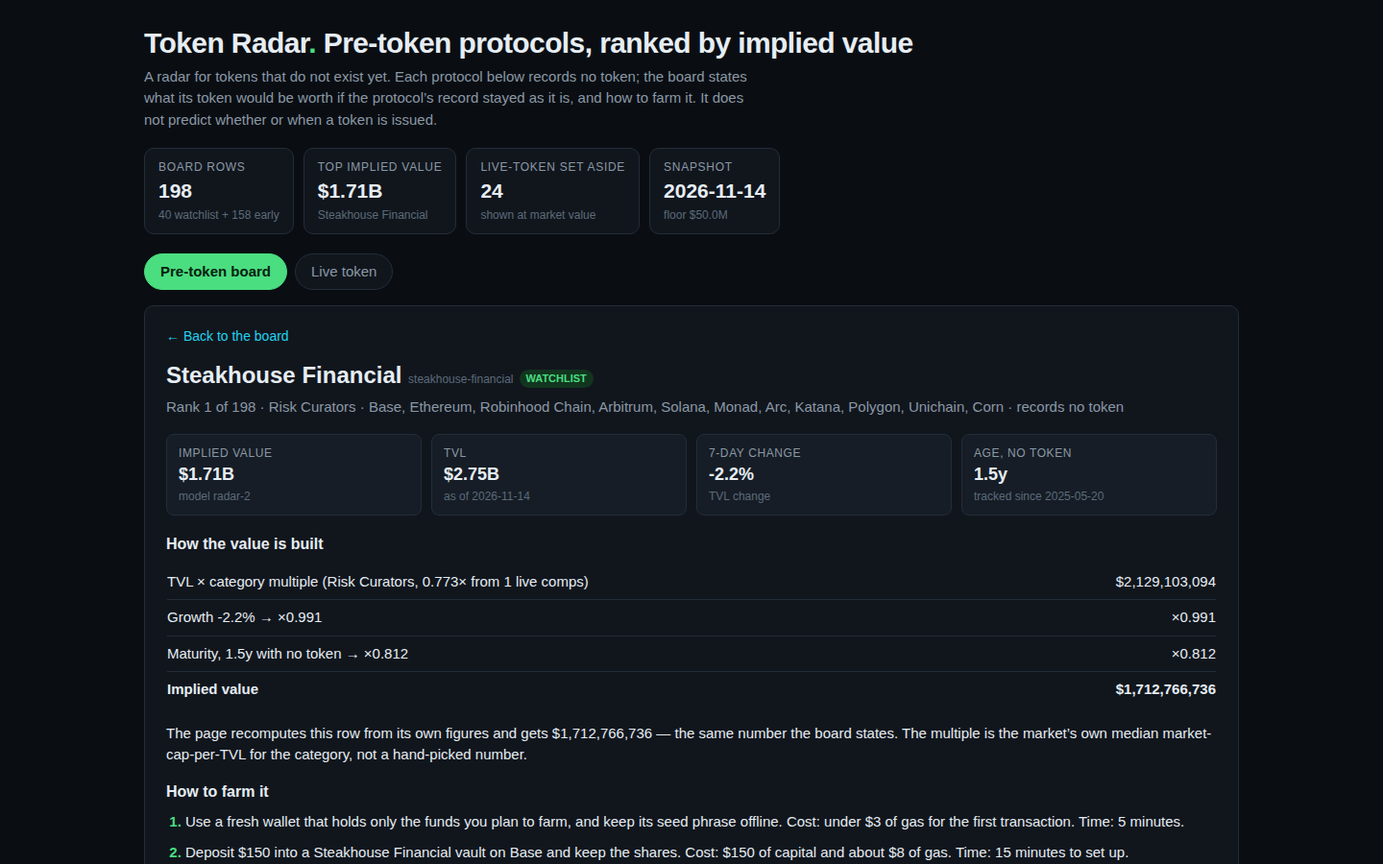
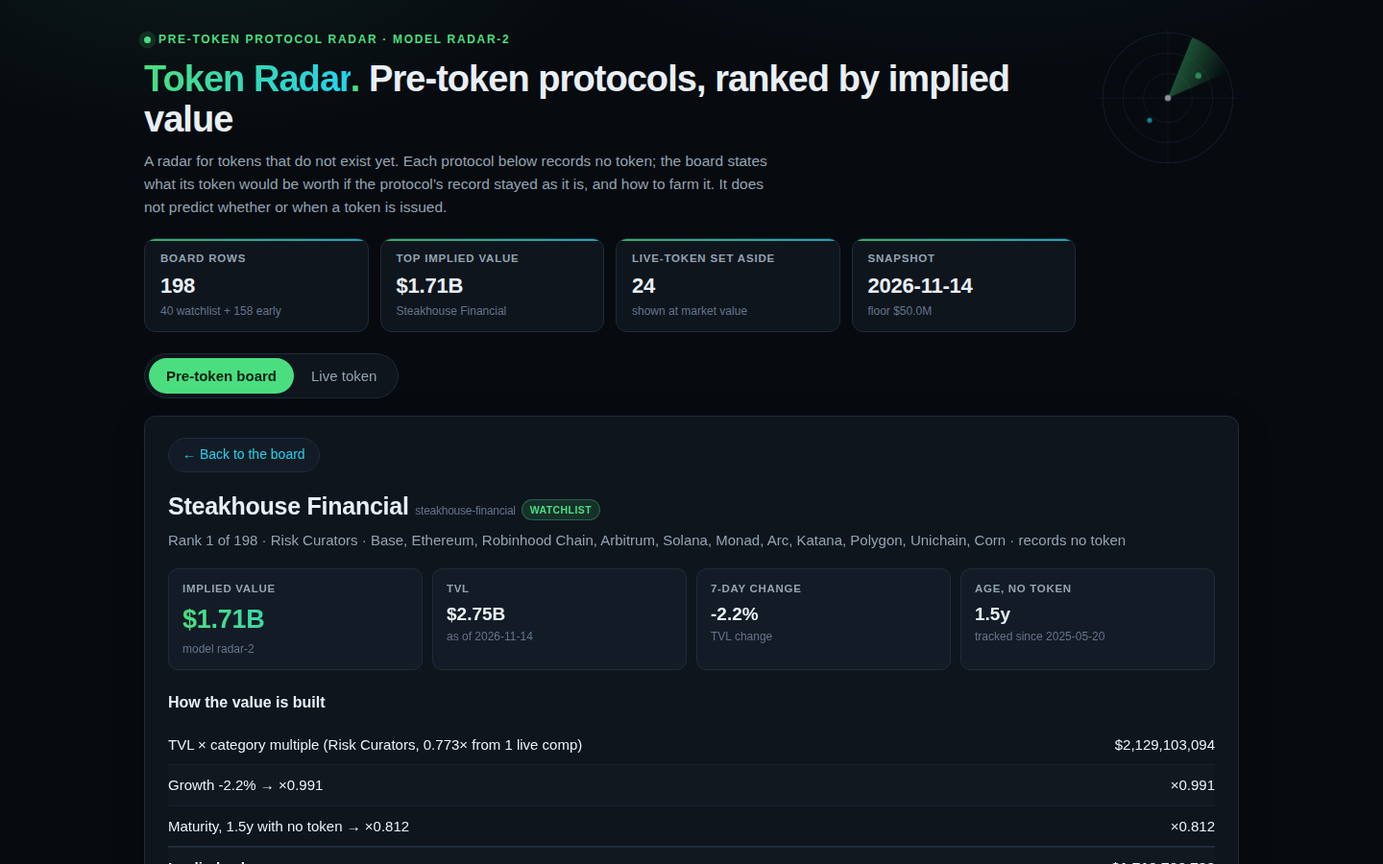
Token Radar: polish dashboard UI — cleaner layout, view transitions, refined theme

diff --git a/dashboard/app.css b/dashboard/app.css
@@ -1,100 +1,169 @@
 :root {
-  --bg: #0a0e13;
-  --panel: #11161d;
-  --panel2: #161d26;
-  --line: #232d38;
-  --text: #e6edf3;
-  --muted: #8b98a5;
-  --faint: #5c6b7a;
+  --bg: #070b10;
+  --panel: #0e151d;
+  --panel2: #131c26;
+  --panel3: #101820;
+  --line: #1f2b38;
+  --line-soft: #182230;
+  --text: #e9eff5;
+  --muted: #94a3b1;
+  --faint: #64748b;
   --accent: #4ade80;
   --accent2: #22d3ee;
   --warn: #fbbf24;
   --bad: #f87171;
   --good: #4ade80;
-  --radius: 10px;
+  --radius: 12px;
+  --shadow: 0 10px 30px rgba(0, 0, 0, 0.35);
 }
 * { box-sizing: border-box; }
 html { color-scheme: dark; }
 body {
   margin: 0;
-  background: var(--bg);
+  background:
+    radial-gradient(900px 420px at 70% -10%, rgba(34, 211, 238, 0.07), transparent 60%),
+    radial-gradient(700px 380px at 15% -5%, rgba(74, 222, 128, 0.08), transparent 60%),
+    var(--bg);
   color: var(--text);
-  font: 15px/1.5 -apple-system, "Segoe UI", Roboto, "Helvetica Neue", Arial, sans-serif;
+  font: 15px/1.55 -apple-system, "Segoe UI", Roboto, "Helvetica Neue", Arial, sans-serif;
+  -webkit-font-smoothing: antialiased;
 }
-.skip { position: absolute; left: -999px; top: 0; background: var(--accent); color: #06210f; padding: 8px 12px; border-radius: 0 0 8px 0; }
+::selection { background: rgba(34, 211, 238, 0.35); }
+:focus-visible { outline: 2px solid var(--accent2); outline-offset: 2px; }
+.skip { position: absolute; left: -999px; top: 0; background: var(--accent); color: #06210f; padding: 8px 12px; border-radius: 0 0 8px 0; z-index: 10; }
 .skip:focus { left: 0; }
-main { max-width: 1180px; margin: 0 auto; padding: 28px 20px 60px; }
+main { max-width: 1180px; margin: 0 auto; padding: 32px 20px 64px; }
 a { color: var(--accent2); }
 button { font: inherit; cursor: pointer; }
-h1 { font-size: 30px; line-height: 1.15; margin: 0 0 6px; letter-spacing: -0.02em; }
+.loading { color: var(--muted); text-align: center; padding: 80px 0; }
+.loading-dot { display: inline-block; width: 8px; height: 8px; margin-right: 8px; border-radius: 50%; background: var(--accent); animation: pulse 1.2s ease-in-out infinite; }
+@keyframes pulse { 0%, 100% { opacity: 1; } 50% { opacity: 0.25; } }
+
+/* ---- header ---- */
+.hero-head { position: relative; }
+@media (min-width: 900px) { .hero-head { padding-right: 170px; } }
+.kicker { display: flex; align-items: center; gap: 8px; font-size: 12px; font-weight: 700; letter-spacing: 0.14em; text-transform: uppercase; color: var(--accent); margin: 0 0 10px; }
+.kicker::before { content: ''; width: 7px; height: 7px; border-radius: 50%; background: var(--accent); box-shadow: 0 0 0 0 rgba(74, 222, 128, 0.45); animation: ping 2.4s ease-out infinite; }
+@keyframes ping { 0% { box-shadow: 0 0 0 0 rgba(74, 222, 128, 0.45); } 70% { box-shadow: 0 0 0 8px rgba(74, 222, 128, 0); } 100% { box-shadow: 0 0 0 0 rgba(74, 222, 128, 0); } }
+h1 { font-size: clamp(28px, 4vw, 38px); line-height: 1.12; margin: 0 0 10px; letter-spacing: -0.025em; font-weight: 750; }
+h1 .brand { background: linear-gradient(92deg, var(--accent), var(--accent2)); -webkit-background-clip: text; background-clip: text; color: transparent; }
 h1 .radar-dot { color: var(--accent); }
-h2 { font-size: 19px; margin: 30px 0 10px; }
-h3 { font-size: 16px; margin: 0 0 8px; }
-.lede { color: var(--muted); max-width: 76ch; margin: 0 0 18px; }
+h1 .h1-rest { font-weight: 650; }
+.radar-deco { position: absolute; right: 0; top: -4px; width: 148px; height: 148px; opacity: 0.6; pointer-events: none; }
+@media (max-width: 899px) { .radar-deco { display: none; } }
+.radar-deco svg { width: 100%; height: 100%; display: block; }
+.radar-sweep { transform-box: view-box; transform-origin: 70px 70px; animation: sweep 14s linear infinite; }
+@keyframes sweep { to { transform: rotate(360deg); } }
+h2 { font-size: 20px; margin: 32px 0 10px; letter-spacing: -0.01em; }
+h3 { font-size: 16px; margin: 22px 0 10px; }
+.lede { color: var(--muted); max-width: 76ch; margin: 0 0 20px; font-size: 15.5px; }
 .lede b { color: var(--text); font-weight: 600; }
-.stats { display: flex; flex-wrap: wrap; gap: 10px; margin: 0 0 20px; }
-.stat { background: var(--panel); border: 1px solid var(--line); border-radius: var(--radius); padding: 10px 14px; min-width: 130px; }
-.stat .k { font-size: 12px; color: var(--muted); text-transform: uppercase; letter-spacing: 0.06em; }
-.stat .v { font-size: 21px; font-weight: 700; font-variant-numeric: tabular-nums; }
+
+/* ---- stats ---- */
+.stats { display: flex; flex-wrap: wrap; gap: 12px; margin: 0 0 22px; }
+.stat { position: relative; overflow: hidden; background: var(--panel); border: 1px solid var(--line); border-radius: var(--radius); padding: 12px 16px; min-width: 140px; flex: 1 1 160px; transition: transform 0.16s ease, border-color 0.16s ease; }
+.stat::before { content: ''; position: absolute; top: 0; left: 0; right: 0; height: 2px; background: linear-gradient(90deg, var(--accent), var(--accent2)); opacity: 0.75; }
+.stat:hover { transform: translateY(-2px); border-color: #2c3d4f; }
+.stat .k { font-size: 11.5px; color: var(--muted); text-transform: uppercase; letter-spacing: 0.07em; font-weight: 600; }
+.stat .v { font-size: 22px; font-weight: 750; font-variant-numeric: tabular-nums; letter-spacing: -0.01em; margin-top: 2px; }
 .stat .s { font-size: 12px; color: var(--faint); }
-.tabs { display: flex; gap: 8px; margin: 0 0 16px; }
-.tab { background: var(--panel); color: var(--muted); border: 1px solid var(--line); border-radius: 999px; padding: 7px 16px; }
-.tab[aria-pressed="true"] { background: var(--accent); border-color: var(--accent); color: #06210f; font-weight: 600; }
+
+/* ---- tabs: segmented control with a sliding indicator ---- */
+.tabs { display: inline-flex; position: relative; gap: 0; background: var(--panel); border: 1px solid var(--line); border-radius: 999px; padding: 4px; margin: 0 0 18px; }
+.tab { position: relative; z-index: 1; background: transparent; color: var(--muted); border: 0; border-radius: 999px; padding: 7px 18px; transition: color 0.18s ease; }
+.tab:hover { color: var(--text); }
+.tab[aria-pressed="true"] { background: rgba(74, 222, 128, 0.14); color: var(--accent); font-weight: 650; }
+.tabs.has-indicator .tab[aria-pressed="true"] { background: transparent; color: #06210f; }
+.tab-indicator { position: absolute; top: 4px; bottom: 4px; left: 4px; width: 0; background: var(--accent); border-radius: 999px; transition: left 0.22s cubic-bezier(0.2, 0.7, 0.3, 1), width 0.22s cubic-bezier(0.2, 0.7, 0.3, 1); z-index: 0; }
+.tabs:not(.has-indicator) .tab-indicator { display: none; }
+
+/* ---- view transitions ---- */
+.view-enter { animation: viewIn 0.22s cubic-bezier(0.2, 0.7, 0.3, 1) both; }
+@keyframes viewIn { from { opacity: 0; transform: translateY(10px); } to { opacity: 1; transform: translateY(0); } }
+
+/* ---- controls ---- */
 .controls { display: flex; flex-wrap: wrap; gap: 10px; align-items: center; background: var(--panel); border: 1px solid var(--line); border-radius: var(--radius); padding: 12px; margin-bottom: 14px; }
 .controls label { font-size: 13px; color: var(--muted); display: flex; align-items: center; gap: 6px; }
 .controls input[type="search"], .controls select {
   background: var(--panel2); color: var(--text); border: 1px solid var(--line);
-  border-radius: 7px; padding: 7px 10px; font: inherit; font-size: 14px;
+  border-radius: 8px; padding: 8px 11px; font: inherit; font-size: 14px;
+  transition: border-color 0.15s ease, box-shadow 0.15s ease;
 }
-.controls input[type="search"] { min-width: 200px; }
+.controls input[type="search"]:focus, .controls select:focus { border-color: var(--accent); outline: none; box-shadow: 0 0 0 3px rgba(74, 222, 128, 0.16); }
+.search-wrap { position: relative; display: flex; align-items: center; flex: 0 1 250px; }
+.search-wrap input[type="search"] { width: 100%; padding-left: 33px; }
+.search-icon { position: absolute; left: 11px; color: var(--faint); display: flex; pointer-events: none; }
 .controls select { max-width: 190px; }
 .controls .count { margin-left: auto; font-size: 13px; color: var(--muted); font-variant-numeric: tabular-nums; }
-.clear { background: none; border: 1px solid var(--line); color: var(--muted); border-radius: 7px; padding: 7px 12px; }
+.clear { background: none; border: 1px solid var(--line); color: var(--muted); border-radius: 8px; padding: 8px 13px; transition: color 0.15s ease, border-color 0.15s ease; }
 .clear:hover { color: var(--text); border-color: var(--faint); }
-table { width: 100%; border-collapse: collapse; background: var(--panel); border: 1px solid var(--line); border-radius: var(--radius); overflow: hidden; }
-thead th { text-align: left; font-size: 12px; text-transform: uppercase; letter-spacing: 0.05em; color: var(--muted); padding: 10px 12px; border-bottom: 1px solid var(--line); white-space: nowrap; }
-thead th button { background: none; border: 0; color: inherit; font: inherit; padding: 0; text-transform: inherit; letter-spacing: inherit; }
+
+/* ---- tables ---- */
+.table-wrap { background: var(--panel); border: 1px solid var(--line); border-radius: var(--radius); overflow: clip; }
+.table-wrap > table { border: 0; background: transparent; }
+table { width: 100%; border-collapse: collapse; }
+thead th { text-align: left; font-size: 11.5px; text-transform: uppercase; letter-spacing: 0.06em; color: var(--muted); padding: 11px 12px; border-bottom: 1px solid var(--line); white-space: nowrap; background: var(--panel3); position: sticky; top: 0; z-index: 2; }
+thead th button { background: none; border: 0; color: inherit; font: inherit; padding: 0; text-transform: inherit; letter-spacing: inherit; transition: color 0.15s ease; }
 thead th button:hover { color: var(--text); }
-tbody td { padding: 10px 12px; border-bottom: 1px solid var(--line); font-variant-numeric: tabular-nums; vertical-align: top; }
+tbody td { padding: 11px 12px; border-bottom: 1px solid var(--line-soft); font-variant-numeric: tabular-nums; vertical-align: middle; transition: background-color 0.14s ease; }
 tbody tr:last-child td { border-bottom: 0; }
 tbody tr { cursor: pointer; }
-tbody tr:hover { background: var(--panel2); }
-tbody tr.top3 td:first-child { color: var(--accent); font-weight: 700; }
+tbody tr:nth-child(even) td { background: rgba(255, 255, 255, 0.016); }
+tbody tr.top3 td { background: rgba(74, 222, 128, 0.05); }
+tbody tr:hover td { background: var(--panel2); }
+tbody tr:hover td:first-child { box-shadow: inset 2px 0 0 var(--accent); }
+tbody tr.top3 td:first-child { color: var(--accent); font-weight: 750; }
 .num { text-align: right; }
-.name { font-weight: 600; }
+.value { font-weight: 700; color: var(--text); }
+.name { font-weight: 650; }
 .slug { color: var(--faint); font-size: 12px; font-weight: 400; }
-.badge { display: inline-block; font-size: 11px; font-weight: 700; padding: 1px 7px; border-radius: 999px; background: #12351f; color: var(--accent); margin-left: 6px; vertical-align: 1px; }
+.badge { display: inline-block; font-size: 10.5px; font-weight: 750; letter-spacing: 0.04em; padding: 2px 8px; border-radius: 999px; background: rgba(74, 222, 128, 0.14); color: var(--accent); border: 1px solid rgba(74, 222, 128, 0.3); margin-left: 6px; vertical-align: 1px; }
 .up { color: var(--good); }
 .down { color: var(--bad); }
 .flat { color: var(--muted); }
-.empty { padding: 34px; text-align: center; color: var(--muted); background: var(--panel); border: 1px solid var(--line); border-radius: var(--radius); }
-.detail { background: var(--panel); border: 1px solid var(--line); border-radius: var(--radius); padding: 20px 22px; }
-.detail .back { background: none; border: 0; color: var(--accent2); padding: 0; margin-bottom: 12px; font-size: 14px; }
-.detail h2 { margin: 0 0 4px; font-size: 24px; }
-.detail .sub { color: var(--muted); margin: 0 0 16px; }
-.grid { display: grid; grid-template-columns: repeat(auto-fit, minmax(150px, 1fr)); gap: 10px; margin-bottom: 18px; }
-.cell { background: var(--panel2); border: 1px solid var(--line); border-radius: 8px; padding: 10px 12px; }
-.cell .k { font-size: 12px; color: var(--muted); text-transform: uppercase; letter-spacing: 0.05em; }
-.cell .v { font-size: 18px; font-weight: 700; font-variant-numeric: tabular-nums; }
+.empty { padding: 36px; text-align: center; color: var(--muted); background: var(--panel); border: 1px solid var(--line); border-radius: var(--radius); }
+
+/* ---- detail ---- */
+.detail { background: var(--panel); border: 1px solid var(--line); border-radius: var(--radius); padding: 22px 24px; box-shadow: var(--shadow); }
+.detail .back { display: inline-flex; align-items: center; gap: 6px; background: var(--panel2); border: 1px solid var(--line); color: var(--accent2); border-radius: 999px; padding: 6px 14px; margin-bottom: 16px; font-size: 14px; transition: border-color 0.15s ease, background-color 0.15s ease; }
+.detail .back:hover { border-color: var(--accent2); }
+.detail h2 { margin: 0 0 4px; font-size: 25px; }
+.detail .sub { color: var(--muted); margin: 0 0 18px; }
+.grid { display: grid; grid-template-columns: repeat(auto-fit, minmax(150px, 1fr)); gap: 10px; margin-bottom: 20px; }
+.cell { background: var(--panel2); border: 1px solid var(--line); border-radius: 10px; padding: 12px 14px; }
+.cell .k { font-size: 11.5px; color: var(--muted); text-transform: uppercase; letter-spacing: 0.06em; font-weight: 600; }
+.cell .v { font-size: 19px; font-weight: 750; font-variant-numeric: tabular-nums; margin-top: 2px; }
 .cell .s { font-size: 12px; color: var(--faint); }
+.cell.hero .v { font-size: 27px; letter-spacing: -0.01em; background: linear-gradient(92deg, var(--accent), var(--accent2)); -webkit-background-clip: text; background-clip: text; color: transparent; }
 .breakdown { width: 100%; border-collapse: collapse; margin-bottom: 6px; }
-.breakdown td { padding: 7px 0; border-bottom: 1px solid var(--line); }
-.breakdown td:last-child { text-align: right; font-variant-numeric: tabular-nums; }
-.breakdown tr:last-child td { border-bottom: 0; font-weight: 700; }
-.breakdown .note { color: var(--faint); font-size: 13px; }
-.steps { margin: 8px 0 0; padding-left: 20px; }
-.steps li { margin-bottom: 10px; }
-.steps li::marker { color: var(--accent); font-weight: 700; }
+.breakdown td { padding: 9px 0; border-bottom: 1px solid var(--line-soft); }
+.breakdown td:last-child { text-align: right; font-variant-numeric: tabular-nums; white-space: nowrap; }
+.breakdown tr:last-child td { border-bottom: 0; border-top: 2px solid var(--line); font-weight: 750; font-size: 15.5px; }
+.note { background: rgba(74, 222, 128, 0.07); border: 1px solid rgba(74, 222, 128, 0.22); border-left: 3px solid var(--accent); border-radius: 10px; padding: 12px 14px; color: var(--text); font-size: 14px; margin: 14px 0 4px; }
+.note::before { content: '✓ '; color: var(--accent); font-weight: 750; }
+.steps { margin: 10px 0 0; padding: 0; list-style: none; counter-reset: step; display: grid; gap: 10px; }
+.steps li { counter-increment: step; position: relative; padding: 14px 16px 14px 58px; background: var(--panel2); border: 1px solid var(--line); border-radius: 10px; transition: border-color 0.15s ease; }
+.steps li:hover { border-color: #2c3d4f; }
+.steps li::before { content: counter(step, decimal-leading-zero); position: absolute; left: 16px; top: 14px; font-weight: 800; font-size: 15px; color: var(--accent); font-variant-numeric: tabular-nums; }
+
+/* ---- method + footer ---- */
 .method { color: var(--muted); }
 .method p { max-width: 80ch; }
 .method code { background: var(--panel2); border: 1px solid var(--line); border-radius: 5px; padding: 1px 6px; font-size: 13px; color: var(--text); }
-.method table { margin-top: 10px; }
 .method tbody tr { cursor: default; }
-.method tbody tr:hover { background: none; }
-.foot { margin-top: 34px; padding-top: 16px; border-top: 1px solid var(--line); color: var(--faint); font-size: 13px; }
+.method tbody tr:hover td { background: transparent; }
+.method tbody tr:hover td:first-child { box-shadow: none; }
+.foot { margin-top: 36px; padding-top: 16px; border-top: 1px solid var(--line); color: var(--faint); font-size: 13px; }
 .foot p { margin: 4px 0; max-width: 80ch; }
+
 @media (max-width: 720px) {
-  h1 { font-size: 24px; }
+  h1 { font-size: 26px; }
   .controls input[type="search"] { min-width: 0; flex: 1; }
+  .search-wrap { flex: 1 1 100%; }
   thead th:nth-child(4), tbody td:nth-child(4) { display: none; }
+  .detail { padding: 16px; }
+  .steps li { padding-left: 48px; }
+}
+@media (prefers-reduced-motion: reduce) {
+  *, *::before, *::after { animation-duration: 0.01ms !important; animation-iteration-count: 1 !important; transition-duration: 0.01ms !important; }
 }

diff --git a/dashboard/app.js b/dashboard/app.js
@@ -127,9 +127,12 @@
   function goBoard() { location.hash = '#board'; }
 
   function header() {
-    var wrap = el('header', null, [
-      el('h1', { html: 'Token Radar<span class="radar-dot">.</span> Pre-token protocols, ranked by implied value' }),
+    var kickerText = 'Pre-token protocol radar' + (DATA.model_version ? ' · model ' + DATA.model_version : '');
+    var wrap = el('header', { 'class': 'hero-head' }, [
+      el('div', { 'class': 'kicker', text: kickerText }),
+      el('h1', { html: '<span class="brand">Token Radar</span><span class="radar-dot">.</span> <span class="h1-rest">Pre-token protocols, ranked by implied value</span>' }),
       el('p', { 'class': 'lede', html: 'A radar for tokens that do not exist yet. Each protocol below records no token; the board states what its token would be worth if the protocol\u2019s record stayed as it is, and how to farm it. It does not predict whether or when a token is issued.' }),
+      el('div', { 'class': 'radar-deco', 'aria-hidden': 'true', html: '<svg viewBox="0 0 140 140" fill="none"><defs><linearGradient id="sweepGrad" x1="0" y1="0" x2="1" y2="0"><stop offset="0" stop-color="#4ade80" stop-opacity="0.55"/><stop offset="1" stop-color="#4ade80" stop-opacity="0"/></linearGradient></defs><circle cx="70" cy="70" r="64" stroke="#334155" stroke-opacity="0.5"/><circle cx="70" cy="70" r="44" stroke="#334155" stroke-opacity="0.4"/><circle cx="70" cy="70" r="24" stroke="#334155" stroke-opacity="0.35"/><line x1="70" y1="2" x2="70" y2="138" stroke="#334155" stroke-opacity="0.3"/><line x1="2" y1="70" x2="138" y2="70" stroke="#334155" stroke-opacity="0.3"/><path class="radar-sweep" d="M70 70 L70 6 A64 64 0 0 1 115 25 Z" fill="url(#sweepGrad)"/><circle cx="100" cy="48" r="3" fill="#4ade80"/><circle cx="52" cy="92" r="2.5" fill="#22d3ee"/><circle cx="70" cy="70" r="3" fill="#e6edf3"/></svg>' }),
     ]);
     var stats = el('div', { 'class': 'stats' }, [
       el('div', { 'class': 'stat' }, [el('div', { 'class': 'k', text: 'Board rows' }), el('div', { 'class': 'v', text: String(DATA.board_size) }), el('div', { 'class': 's', text: DATA.watchlist_size + ' watchlist + ' + DATA.early_size + ' early' })]),
@@ -144,7 +147,28 @@
   function tabs() {
     var pre = el('button', { 'class': 'tab', type: 'button', 'aria-pressed': state.tab === 'pre-token' ? 'true' : 'false', text: 'Pre-token board', onclick: function () { state.tab = 'pre-token'; state.detail = null; goBoard(); } });
     var live = el('button', { 'class': 'tab', type: 'button', 'aria-pressed': state.tab === 'live' ? 'true' : 'false', text: 'Live token', onclick: function () { state.tab = 'live'; state.detail = null; location.hash = '#live'; } });
-    return el('div', { 'class': 'tabs' }, [pre, live]);
+    var ind = el('span', { 'class': 'tab-indicator', 'aria-hidden': 'true' });
+    return el('div', { 'class': 'tabs' }, [ind, pre, live]);
+  }
+
+  /** Slide the segmented-control indicator under the active tab. Falls back to the
+   *  plain active-tab style when the active tab cannot be measured. */
+  function positionTabIndicator() {
+    var box = document.querySelector('.tabs');
+    if (!box) return;
+    var active = box.querySelector('.tab[aria-pressed="true"]');
+    var ind = box.querySelector('.tab-indicator');
+    if (!active || !ind || !active.offsetWidth) return;
+    ind.style.left = active.offsetLeft + 'px';
+    ind.style.width = active.offsetWidth + 'px';
+    box.classList.add('has-indicator');
+  }
+
+  var indicatorResizeBound = false;
+  function bindIndicatorResize() {
+    if (indicatorResizeBound) return;
+    indicatorResizeBound = true;
+    window.addEventListener('resize', positionTabIndicator);
   }
 
   function controls() {
@@ -152,6 +176,10 @@
     var chains = Array.from(new Set(DATA.rows.reduce(function (acc, r) { return acc.concat(r.chains || []); }, []))).sort();
     var search = el('input', { type: 'search', placeholder: 'Search name or slug…', value: state.q, 'aria-label': 'Search protocols' });
     search.addEventListener('input', function () { state.q = search.value; writeHash(); render(); });
+    var searchWrap = el('div', { 'class': 'search-wrap' }, [
+      el('span', { 'class': 'search-icon', 'aria-hidden': 'true', html: '<svg viewBox="0 0 16 16" width="15" height="15" fill="none"><circle cx="7" cy="7" r="5" stroke="currentColor" stroke-width="1.6"/><line x1="11" y1="11" x2="14.5" y2="14.5" stroke="currentColor" stroke-width="1.6" stroke-linecap="round"/></svg>' }),
+      search,
+    ]);
     var cat = el('select', { 'aria-label': 'Filter by category' }, [el('option', { value: 'all', text: 'All categories' })].concat(categories.map(function (c) { return el('option', { value: c, text: c, selected: c === state.category ? 'selected' : null }); })));
     cat.addEventListener('change', function () { state.category = cat.value; writeHash(); render(); });
     var ch = el('select', { 'aria-label': 'Filter by chain' }, [el('option', { value: 'all', text: 'All chains' })].concat(chains.map(function (c) { return el('option', { value: c, text: c, selected: c === state.chain ? 'selected' : null }); })));
@@ -171,7 +199,7 @@
     sort.addEventListener('change', function () { state.sort = sort.value; state.dir = state.sort === 'name' ? 1 : -1; writeHash(); render(); });
     var clear = el('button', { 'class': 'clear', type: 'button', text: 'Clear filters', onclick: function () { state.q = ''; state.category = 'all'; state.chain = 'all'; state.watchlistOnly = false; state.sort = 'implied'; state.dir = -1; writeHash(); render(); } });
     var count = el('span', { 'class': 'count', text: '' });
-    var box = el('div', { 'class': 'controls' }, [search, cat, ch, wl, sort, clear, count]);
+    var box = el('div', { 'class': 'controls' }, [searchWrap, cat, ch, wl, sort, clear, count]);
     box._count = count;
     return box;
   }
@@ -203,13 +231,13 @@
         el('td', { 'class': 'num', text: fmtUsd(r.tvl_usd) }),
         el('td', { 'class': 'num' }, [chg]),
         el('td', { 'class': 'num', text: fmtAge(r.age_days) }),
-        el('td', { 'class': 'num', text: fmtUsd(r.implied_value_usd) }),
+        el('td', { 'class': 'num value', text: fmtUsd(r.implied_value_usd) }),
       ]);
       if (r.rank <= 3) row.classList.add('top3');
       return row;
     }));
     if (box && box._count) box._count.textContent = list.length + ' of ' + DATA.rows.length + ' protocols';
-    return el('table', null, [head, body]);
+    return el('div', { 'class': 'table-wrap' }, [el('table', null, [head, body])]);
   }
 
   function liveTable() {
@@ -230,7 +258,7 @@
     }));
     return el('div', null, [
       el('p', { 'class': 'lede', text: 'These protocols already have a token that trades. Their value is the market\u2019s own number, never this radar\u2019s model. They are set aside so the board ranks only what is still to come.' }),
-      el('table', null, [head, body]),
+      el('div', { 'class': 'table-wrap' }, [el('table', null, [head, body])]),
     ]);
   }
 
@@ -250,7 +278,7 @@
       el('h2', null, [document.createTextNode(r.name + ' '), el('span', { 'class': 'slug', text: r.slug }), WATCHLIST[r.slug] ? el('span', { 'class': 'badge', text: 'WATCHLIST' }) : null]),
       el('p', { 'class': 'sub', text: 'Rank ' + r.rank + ' of ' + DATA.rows.length + ' · ' + (r.category || 'No category') + ' · ' + (r.chains || []).join(', ') + ' · records no token' }),
       el('div', { 'class': 'grid' }, [
-        el('div', { 'class': 'cell' }, [el('div', { 'class': 'k', text: 'Implied value' }), el('div', { 'class': 'v', text: fmtUsd(r.implied_value_usd) }), el('div', { 'class': 's', text: 'model ' + (DATA.model_version || '') })]),
+        el('div', { 'class': 'cell hero' }, [el('div', { 'class': 'k', text: 'Implied value' }), el('div', { 'class': 'v', text: fmtUsd(r.implied_value_usd) }), el('div', { 'class': 's', text: 'model ' + (DATA.model_version || '') })]),
         el('div', { 'class': 'cell' }, [el('div', { 'class': 'k', text: 'TVL' }), el('div', { 'class': 'v', text: fmtUsd(r.tvl_usd) }), el('div', { 'class': 's', text: 'as of ' + (DATA.as_of || '') })]),
         el('div', { 'class': 'cell' }, [el('div', { 'class': 'k', text: '7-day change' }), el('div', { 'class': 'v', text: fmtPct(r.change_7d) }), el('div', { 'class': 's', text: 'TVL change' })]),
         el('div', { 'class': 'cell' }, [el('div', { 'class': 'k', text: 'Age, no token' }), el('div', { 'class': 'v', text: fmtAge(r.age_days) }), el('div', { 'class': 's', text: r.listed_at ? 'tracked since ' + r.listed_at : 'first tracked date unknown' })]),
@@ -283,7 +311,7 @@
       el('p', { html: 'Implied value = TVL × category multiple × growth × maturity. The multiple is the median market-cap-per-TVL of the live protocols in the same category, shrunk toward the global median (' + fmtMult(DATA.global_multiple || 0) + ') where the category has few live comps, and clamped to [' + (m.multiple_floor || 0) + ', ' + (m.multiple_cap || 0) + ']. Growth is the seven-day TVL change, clamped to [' + (m.growth_floor || 0) + '%, ' + (m.growth_cap || 0) + '%] and weighted ' + (m.growth_weight || 0) + '. Maturity rises with the days a protocol has run with no token, from ' + (m.maturity_floor || 0) + ' to ' + (((m.maturity_floor || 0) + (m.maturity_range || 0)).toFixed(2)) + ' over ' + (m.maturity_days || 0) + ' days.' }),
       el('p', { text: 'No protocol name is special-cased. A farm plan is six steps built from the protocol\u2019s own record — its category, its chains, its TVL and its age — with a cost and a time on every step. The board never says a token will be issued, or when: it says what the token would be worth if the record stayed as it is.' }),
       el('h3', { text: 'Category multiples (highest first)' }),
-      el('table', null, [el('thead', null, [el('tr', null, [el('th', { text: 'Category' }), el('th', { text: 'Multiple' }), el('th', { text: 'Live comps' })])]), el('tbody', null, rows)]),
+      el('div', { 'class': 'table-wrap' }, [el('table', null, [el('thead', null, [el('tr', null, [el('th', { text: 'Category' }), el('th', { text: 'Multiple' }), el('th', { text: 'Live comps' })])]), el('tbody', null, rows)])]),
     ]);
   }
 
@@ -294,26 +322,47 @@
     ]);
   }
 
+  var lastViewKey = null;
+
   function render() {
     applyHash();
     var main = document.getElementById('board');
+    // Keep the search box focused across rebuilds: render() replaces the whole
+    // page on every keystroke, so remember the caret and put it back.
+    var active = document.activeElement;
+    var wasSearch = !!(active && active.getAttribute && active.getAttribute('aria-label') === 'Search protocols');
+    var caret = null;
+    if (wasSearch) { try { caret = [active.selectionStart, active.selectionEnd]; } catch (e) { caret = null; } }
     main.setAttribute('aria-busy', 'false');
     main.innerHTML = '';
     main.appendChild(header());
     main.appendChild(tabs());
+    var viewKey = state.tab + '|' + (state.detail || '');
+    var view = el('div', { 'class': 'view' + (viewKey !== lastViewKey ? ' view-enter' : '') });
+    lastViewKey = viewKey;
     if (state.tab === 'live') {
-      main.appendChild(liveTable());
+      view.appendChild(liveTable());
     } else if (state.detail) {
-      main.appendChild(detailView(state.detail));
+      view.appendChild(detailView(state.detail));
     } else {
       var box = controls();
-      main.appendChild(box);
-      main.appendChild(boardTable(filteredRows(), box));
+      view.appendChild(box);
+      view.appendChild(boardTable(filteredRows(), box));
     }
+    main.appendChild(view);
     if (!state.detail) main.appendChild(methodSection());
     main.appendChild(footer());
+    positionTabIndicator();
+    if (wasSearch) {
+      var s = main.querySelector('input[type="search"]');
+      if (s) {
+        s.focus();
+        if (caret) { try { s.setSelectionRange(caret[0], caret[1]); } catch (e) { /* caret restore is best-effort */ } }
+      }
+    }
   }
 
   window.addEventListener('hashchange', render);
+  bindIndicatorResize();
   render();
 })();

diff --git a/dashboard/index.html b/dashboard/index.html
@@ -3,12 +3,14 @@
 <head>
 <meta charset="utf-8">
 <meta name="viewport" content="width=device-width, initial-scale=1">
+<meta name="color-scheme" content="dark">
+<meta name="description" content="Token Radar: 198 pre-token protocols ranked by implied value.">
 <title>Token Radar: pre-token protocols ranked by implied value</title>
 <link rel="stylesheet" href="app.css">
 </head>
 <body>
 <a class="skip" href="#board">Skip to the board</a>
-<main id="board" tabindex="-1" aria-busy="true"></main>
+<main id="board" tabindex="-1" aria-busy="true"><div class="loading"><span class="loading-dot"></span>Loading the radar…</div></main>
 <script src="../data.js"></script>
 <script src="app.js"></script>
 </body>
